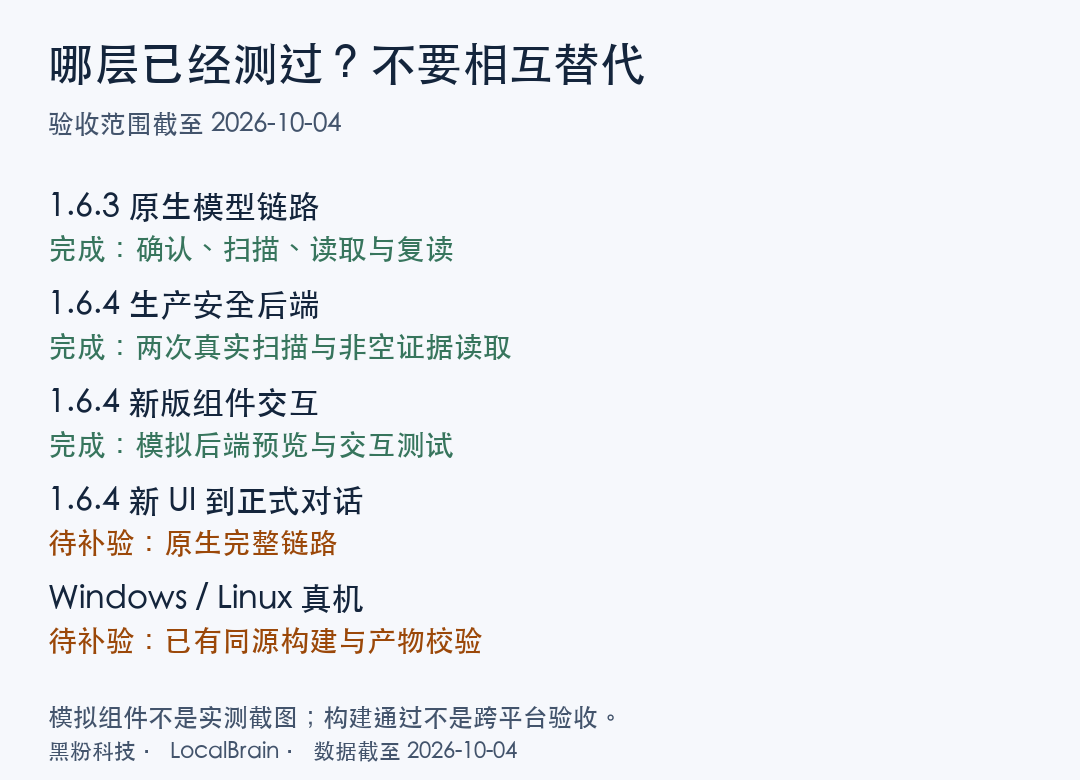
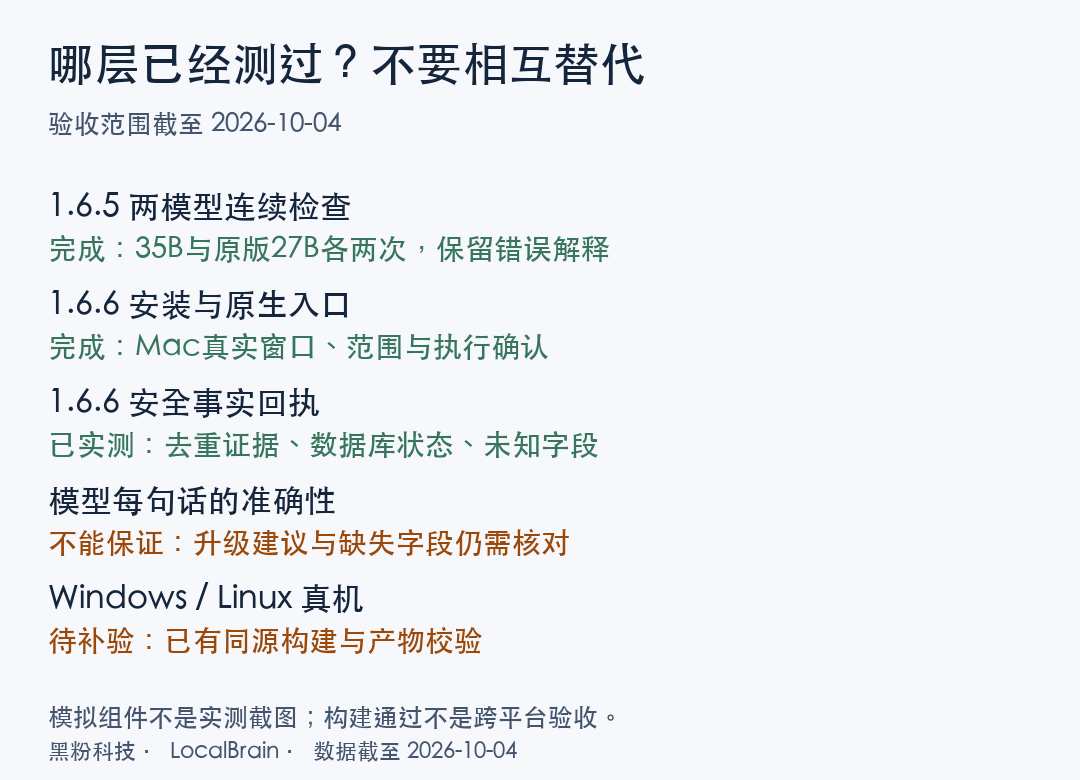
更新LocalBrain1.6.6实测与操作教程

diff --git a/content-export/posts/localbrain-network-security-en.md b/content-export/posts/localbrain-network-security-en.md
@@ -5,10 +5,10 @@ status: published
 lang: en
 translation_of: localbrain-network-security
 translation_source: machine
-source_sha256: 7ec7aede9eb5cd8e
+source_sha256: 05d34d9dc5f78652
 date: 2026-10-03
-updated: 2026-10-03
-summary: "Latest security inspection tutorial: Three targets, two execution methods, authorization filling and prompts, retaining real screenshots and two sets of test data, clearly defining 170 component matching and unaccepted boundaries."
+updated: 2026-10-04
+summary: "Security Inspection Practical Tutorial: Real installation window, three types of targets, scope confirmation and prompts, retaining continuous 35B and 27B tests, 170 component matching and model interpretation errors, clarifying verification boundaries across platforms."
 categories:
   - Tech
 tags:
@@ -29,11 +29,11 @@ legacy_paths: []
 
 My starting point for this feature was simple: since the local model can already write code and read files, could it check its own projects and services, instead of copying the scanner's output to it every time?
 
-Now this link has real results. On my M5 Pro Mac with 64GB RAM, the model in the installation took **97 seconds** to complete a built-in range check; The same conversation reread the report took **13 seconds** without rescanning. The new production backend also successfully checked twice in succession, with **15.307 seconds and 16.313 seconds** respectively.
+Now this link has real results. On my M5 Pro and 64GB memory Mac, the 1.6.5 installer tested twice consecutively with 35B and the original 27B Splash. All four times returned **170 component matches**, the actual scanning mirroring phase was **12–13 seconds**, and the temporary range was cleared. The new streamlined entry, range confirmation, and model call all retain real window screenshots.
 
-But these numbers shouldn't be confused with the phrase "the new version is six times faster." 97 seconds include model organization tasks and manual confirmation, 15 seconds only test scanning tools, and they use existing caches. This article separates operations, screenshots, data, and unfinished parts, so you know how to use them and what the results reveal.
+But "scan successful" and "model explanation accurate" are not the same thing. 27B once said that the page-turn parameters he hadn't submitted were tool failure, and both models overexplained the missing fix versions. 1.6.6 Therefore, actual parameters, the number of read evidences, and unknown fields are included in the program receipt. Let's first walk through the interface and see what these numbers actually prove.
 
-> Version Notes: This article was updated on October 4, 2026. The latest streamlined interface belongs to **1.6.4-rc.1 Candidate**; The real native model screenshot comes from 1.6.3. 1.6.4 has been supplemented with the production safety adapter, but the complete native process from the new interface to the official dialogue has not yet been verified. The two new interface images in this article clearly indicate the analog component preview and do not pretend to be scanned screenshots.
+> Version Note: This article was updated on October 4, 2026. The new operation screenshots are from the locally installed **1.6.6**; The four-instance same-condition model comparison comes from **1.6.5**; the historical records 1.6.3 and 1.6.4 are listed below. All software interface images are screenshots of the real window; Mechanism diagrams and data diagrams are marked separately and cannot replace operation acceptance.
 
 ## 1. First, look at the results: What has it already done?
 
@@ -59,13 +59,13 @@ Local models can call five security tools: querying environments and authorizati
 
 The old interface split environment, reverse validation, authorization, and scanning into many buttons. When opening it for the first time, it's easy to not know which to click first. The new version consolidates normal operations into three object entry points: **Built-in practice range, My Host or Service, My Container**; Default collapse for environment diagnosis and maintenance.
 
-![1.6.4 Three Types of Objects and Execution Methods: Simulated backend interaction preview of the official component, and screenshots of non-installed version tests.](https://hyphentech.top/obsidian-assets/localbrain-network-security/ui-164-component-preview.jpg)
+![1.6.6 Installation Version Real Window: Only displays the operation of the selected object; Select Juice Shop and model execution method, no need to enter IP or container number.](https://hyphentech.top/obsidian-assets/localbrain-network-security/native-166-model-entry.png)
 
 There are two execution options. The default "Let local model check" targets the formal conversation, which is handled by model query capabilities, tool calls, and report organization; "Direct check" does not call the model but only runs a fixed inspection process.
 
 I recommend selecting the built-in range for the first time. If you want to check the entire model chain, use the model method; If you only want to check whether the scanner and environment are normal, use the direct method. If the direct method succeeds and the model method fails, then you can continue checking model calls, confirming, and session handovers, without blaming everything on model parameters from the start.
 
-![Unified Range Confirmation Card: Centralized verification of targets, methods, and inspection scope. Simulated component preview; the confirmed native link still awaits the latest version for re-inspection.](https://hyphentech.top/obsidian-assets/localbrain-network-security/ui-164-confirmation-preview.jpg)
+![1.6.6 True Scope Confirmation Card: Centralized verification of objectives, execution methods, and inspection scope; Inspection cannot start without selecting authorized checks.](https://hyphentech.top/obsidian-assets/localbrain-network-security/native-166-scope.png)
 
 The normal order is: Select object → check scope → confirm permission to check → automatically prepare and run → view reports. Successful environment preparation does not mean authorizing any host, and the interface scope confirmation does not replace the native execution confirmation required by the tool.
 
@@ -82,7 +82,7 @@ Juice Shop is the built-in practice target. This path doesn't require you to fil
 7. The model method will be handed over to the newly created formal dialogue. When encountering the native tool confirmation box, verify the current action before allowing execution.
 8. After completion, first check the report status and objectives, then look at findings and evidence; Failure, rejection, or no report cannot be explained as "no loopholes."
 
-![Old version real range entry: Used to compare range selection and confirmation content. The new version no longer needs to search for every old button.](https://hyphentech.top/obsidian-assets/localbrain-network-security/ui-demo-20261003.png)
+![1.6.6 Installation and Local Resources: Apple M5 Pro, 64GB unified memory; weights and operating environment remain user-selected.](https://hyphentech.top/obsidian-assets/localbrain-network-security/native-166-installed.png)
 
 If you want to directly request a task in the dialogue, you can copy this inspection command:
 
@@ -97,9 +97,49 @@ If you want to directly request a task in the dialogue, you can copy this inspec
 
 This is a task description, not an authorization password. Actual approval is returned by the trusted interface; writing "approved" in the parameters has no effect.
 
-![1.6.3 Genuine Native Confirmation Box for Installation: Only selected Juice Shop demonstration actions are allowed; refusal will result in no execution.](https://hyphentech.top/obsidian-assets/localbrain-network-security/02-scoped-confirmation.png)
+![1.6.6 Genuine Native Tool Approval Box: Clearly only audits the juice-shop temporary range, does not authorize other network targets, and does not exploit vulnerabilities.](https://hyphentech.top/obsidian-assets/localbrain-network-security/native-166-approval.png)
 
-## 4. Test 1: Model runs completely, reports can be read again
+## 4. Comparison under the same conditions: 35B and the original 27B have the same scan, but the explanation is different
+
+All four times were run in the 1.6.5 install, targeting the same Juice Shop image, with no restart between the two instances. The model uses the same entry point and check requirements; 27B is the original Qwen 3.8-27B-Splash, not Swift 1.5. The total time spent in the table includes model task organization, report reading, and manual approval waiting, so it cannot be considered a pure inference speed ranking.
+
+| Record | Total time consumed | Number of rounds / tool counts | Backend scanning | Actual deduplication and read |
+| --- | --- | --- | --- | --- |
+| 35B for the first time | 69 seconds | 5 / 5 | 13 seconds | 29 / 170 entries |
+| 35B The second time | 164 seconds | 23 / 22 | 13 seconds | 170 / 170 articles |
+| 27B for the first time | 201 seconds | 5 / 7 | 13 seconds | 29 / 170 entries |
+| 27B The second time | 145 seconds | 7 / 7 | 12 seconds | 19 out of 170 articles |
+
+![1.6.5 Original 27B first actual results; Total model time recorded separately from the scanning phase.](https://hyphentech.top/obsidian-assets/localbrain-network-security/native-165-27b-first.png)
+
+Each time, the scanner gave 9 ratings of Serious, 54 High, 83 Medium, and 24 Low. The actual evidence obtained by the model differs: 35B used 19 readings to traverse all records the second time, totaling 23 rounds; 27B repeated the first page of high-risk the second time, but actually found only 19 different records. Parameters saved by the backend show that these requests were not offset, so the model cannot assume pagination is invalid just because it says "I sent 10."
+
+![1.6.5 Original 27B second consecutive real window. Scan successful, but the explanations of "no fix" and "parameter not active" in the report are still incorrect.](https://hyphentech.top/obsidian-assets/localbrain-network-security/native-165-27b-repeat.png)
+
+This comparison does not filter out failures or misinterpretations. It shows that execution links can be used continuously, and also shows that model descriptions cannot replace tool facts. Each model only has two entries, which is insufficient to prove which is generally better; 170 entries are component matches, not the number of independent vulnerabilities, and certainly not the number of successful exploits. [Complete comparison record](https://github.com/HackerChi-Hub/localbrain/blob/main/docs/evidence/2026-10-04-native-acceptance/27B-SPLASH-COMPARISON.md).
+
+The handling of 1.6.6 is handled by a common mechanism: returns the actual pagination parameter and the full request for the next page; repeated readings do not add cumulative evidence; missing fields are marked as unknown; invalid targets are rejected before approval. The model still decides which key evidence to read, does not force iteration by line, and does not automatically change parameters based on a particular model name.
+
+After installing 1.6.6, I used the same original 27B to go through the real entry, native approval, scan, and evidence reading again. The first round lasted 4 minutes and 43 seconds, including about 1 minute and 38 seconds of manual approval waiting; The scan itself was still 13 seconds. Throughout the entire 7 and 8 rounds of tools, the 5 readings actually only read 19 different records, and repeat requests did not increase the number of reads.
+
+![1.6.6 Original 27B First Round Actual Results: Task Completion and Total Time; 19 deduplication read statistics come from the original receipt, not proof by this screenshot alone.](https://hyphentech.top/obsidian-assets/localbrain-network-security/native-166-first-result.png)
+
+This round of the model correctly states "vulnerability database updated, offline scan," and clearly states that all 9 critical items were read, 10 high-risk samples, and medium-low risk not read. The table labeled the missing fix version as "unknown," but the subsequent suggestion still used "unknown fixed" and provided upgrade suggestions for this round without online verification. I keep this inconsistency: the program can provide verifiable facts, but it cannot force the model to be accurate every sentence. The formal package is the delivery of this mechanism, not the security certification suggested by the model.
+
+The second consecutive unrebooted session was completed: 4 rounds, 4 tool runs, 2 report reads, still 19 different pieces of evidence; Log recording actual scans took 12 seconds, 170 matches, and temporary container and network cleanup successfully. The interface took a total of 10 minutes and 57 seconds, with the tool phase containing 8 minutes and 56 seconds including lock screen and approval waiting, which could not be used to judge model slowdown. At the end of the second round, the real interface was accessible by text and persistent log verification; Subsequent screenshot service failed, so no images were recreated in the second round.
+
+| 1.6.6 Original 27B Test | The first time | For the second time in a row |
+| --- | --- | --- |
+| Total task time including manual waiting | 4 minutes 43 seconds | 10 minutes and 57 seconds |
+| Actual backend scanning phase | 13 seconds | 12 seconds |
+| Number of rounds / number of tools, including delivery | 7 / 8 | 4 / 4 |
+| Number of times reports are read / different types of evidence | 5 / 19 | 2 / 19 |
+| Total number of components matched | 170 | 170 |
+| Temporary resource clearance | Success | Success |
+
+The second round's statements about "unknown fix" and "19 reads only" are more accurate, but the two preparations were successfully made as identical database snapshots; Without a database summary, snapshots cannot be proven. The final "file completed" also does not apply to this task without file delivery. These are issues with existing model interpretation and closing wording, not facts verified by scanners. We can confirm that the continuous execution link is normal, but this does not guarantee the accuracy of every report sentence.
+
+## 5. Historical Testing: The model is fully executed, and the report can be read again
 
 The first set of tests used Swift-1.5-Qwen3.8-27B-Splash, running twice consecutively through the product-sharing agent kernel and production security adapter, without any reboots in between. The test bridge only allowed temporary built-in ranges and rejected external hosts and user containers; Therefore, it proved the model toolchain was usable but did not replace desktop acceptance boxes.
 
@@ -130,7 +170,7 @@ Then enter in the same dialogue:
 
 This is more important than a single success: if there is already a report, the preserved evidence should be read, without having to recreate the range each round, update the database, or scan it again. This time, only the above models and paths were validated, so it cannot be claimed that all language models have passed the same tests.
 
-## 5. Test 2: Is there any problem with continuous use of the new backend?
+## 6. Historical backend supplementary testing: Is there any problem with continuous use?
 
 The 1.6.4 retest uses the current source code compiled production safety adapter, completing two consecutive Juice Shop checks without restarting the test process. After scanning, three pieces of raw evidence are read, each with an independent report number and a non-null result.
 
@@ -147,7 +187,7 @@ This validates the continuous scanning and report reading of the production back
 
 There are also failures in testing: the first script mistakenly read the returned `reportId` with another field, and after scanning, the report request was missing the number. Only after correcting the test script fields did the above table be obtained. Failures occur in the test script and cannot be attributed to the model; After fixing, you cannot pretend the first time never failed.
 
-## 6. How should the 170 findings be interpreted?
+## 7. How should the 170 findings be interpreted?
 
 The two new backend results were consistent: Severe 9, High 54, Medium 83, Low 24, totaling 170 entries. These are matching records of identifiable software packages within the image and known vulnerability databases, not the 170 successfully exploited business vulnerabilities.
 
@@ -155,11 +195,11 @@ The two new backend results were consistent: Severe 9, High 54, Medium 83, Low 2
 
 When reviewing reports, check at least five things: which target is the target; Matching components and versions; Where the evidence comes from; Whether the fields are fixed are clear; Check what is not covered.
 
-This time, the identifiable software packages in the image are overridden, but the extra files, host kernel, and application business permission logic are not overridden by the running container. This offline scan did not include network resolution dependencies, nor was the Java index database enabled. No specific type of issue was found; it can only be said that this inspection did not detect any and cannot be considered the overall security target.
+This override covers identifiable packages in the image and does not overwrite additional files, host kernels, or application business permission logic for running containers. Offline scanning does not connect to the network for parsing dependencies, but during the preparation phase, vulnerability databases and Java databases can still be updated online. A successful database download does not prove full coverage of Java components; 1.6.6 Record the status of most recently successful preparation separately; unverified overrides remain unknown. No specific type of issue was detected, so overall target security cannot be inferred.
 
 The model made an initial mistake: the report had an empty fix version, saying "no official fix." In reality, it could only say "the database records do not list the fix version." The original report was later reviewed before correction. Therefore, the model recommended that there must be backpoint evidence; Which version to upgrade should still be verified in conjunction with the project; the recommendation is not a fixed that has already been performed.
 
-## 7. Your own host: The preset will help you fill it out, but the target cannot authorize it for you
+## 8. Your own host: Presets will fill in for you, but the target cannot be authorized for you
 
 Select "My Host or Service" and select the inspection plan first. If there is an optional local service, select from the dropdown box and use the actual address and publishing port of the discovered service; Manually enter its own address only if the target is not listed.
 
@@ -178,7 +218,7 @@ The program can automatically provide default values for the scheme and read por
 
 The local service list only covers published services discovered within the dedicated isolation environment and does not automatically detect the entire local area network. Expires after authorization expires or the application is exited; reading old reports will not restore permissions.
 
-## 8. Your own container: Choose the real target, do not manually fill in the number
+## 9. Your own container: Choose the real target, don't fill in numbers manually
 
 Select "My Container," choose an actual container from the list, then verify the target and image. The model method hands the clear container number to the dialogue; The direct method audits the image snapshot. Neither method equals exploiting vulnerabilities on the running webpage.
 
@@ -188,7 +228,7 @@ When the list is empty, first verify the environment with the built-in range; th
 
 For code projects, the task can be changed to: "Review dependencies and configurations of this authorized workspace, first provide evidence, then propose minimum repair suggestions; Request confirmation before building or testing." This does not require authorizing network hosts, but project scripts may access external directories or software repositories, so commands must still be verified; workspace selectors cannot be treated as complete system isolation.
 
-## 9. What to do if an error is reported: First, identify the failed segment, avoid repeating random points
+## 10. What to do with errors: First, identify the failed segment and avoid repetitive random points
 
 Authentic native tests initially failed: query ability was normal, but execution was mistakenly serialized as objects, backend rejected approval values, scans did not run. Fix placed on shared acknowledgment boundaries: wait for asynchronous native confirmation, only accept strict Boolean truth, unknown values reject by default; Not write a special prompt for a model.
 
@@ -204,15 +244,15 @@ Earlier connectivity tests also found false positives: the target was down, but 
 
 Isolated reverse validation checks boundaries such as authorized target reach, unauthorized port denial, direct access denial, public network access denial, and post-stop cleanup. Through these validations, only the tested boundary works as expected; containers, virtual machines, and proxies cannot be guaranteed to be free of vulnerabilities.
 
-## 10. Which version should I download? Which conclusions have not yet been accepted?
+## 11. Which version should I download? Which conclusions have not yet been accepted?
 
-The latest streamlined interface is on the [1.6.4-rc.1 all-platform candidate release page](https://github.com/HackerChi-Hub/localbrain-releases/releases/tag/v1.6.4-rc.1). The device is already installed with 1.6.4, Mac installation products match build products, installation package verification and update signature verification passed; No Apple notarization. Official automatic update still retains 1.5.9, and the candidate version will not be automatically pushed to everyone as the official stable version.
+The official version for this round is [1.6.6 on the all-platform release page](https://github.com/HackerChi-Hub/localbrain-releases/releases/tag/v1.6.6). This machine has installed version 1.6.6, the Mac native home screen matches the installation file version, and the installation package hash and update signature verification have passed; No Apple notarization is provided. The update list and download page are synchronized to the same version, and the old release is still retained.
 
-The Windows and Linux source build has been uploaded and verified, but both platforms have not yet been accepted for real-world use. Linux is considered to be supported in preview and cannot run MLX / Splash. The latest native Mac interface process was not retested due to system window capture issues; This article does not use simulation images to replace it.
+Windows and Linux are built from the same source code submission; installation package hashes and update signatures have been verified, but both platforms have not yet been accepted for real-world use. Linux is still considered to be preview-supported, MLX/Splash cannot run, and managed llama.cpp and Prism downloads have not yet been fully integrated. The model runs and native window tests in this article are from Mac and are not extended to guarantee across all platforms.
 
-This candidate release retained 14 download files. In source code acceptance, 1,423 frontend tests passed and 2 were skipped; Rust tests passed 295 and 18 were ignored; 29 test files from the Python environment passed, including 212 unit tests and additional scripts. Skipping and ignoring items do not count as passing, and the number of tests cannot replace native acceptance tests. This set of data indicates which layer of release check was achieved and does not mean the software is free of defects.
+In source code acceptance, 1,423 frontend tests passed, with 2 skipped; Rust tests passed 297 tests and 18 ignored; 29 test files passed in the product Python environment, including 212 unit tests and additional scripts. The first misuse of the Python 3.9 system resulted in a lack of dependencies and test failures; After switching to the actual product environment, all tests passed in retesting. Skipping and ignoring items do not count as passing, and the number of tests cannot replace native acceptance or guarantee that the model interpretation is error-free.
 
-![Acceptance layering: old model testing, new backend testing, new simulation interaction, and unfinished verification items.](https://hyphentech.top/obsidian-assets/localbrain-network-security/chart-evidence-levels.png)
+![Acceptance layering: Records real Mac model calls, backend evidence, and cross-platform package validation separately, building acceptance without impersonating real devices.](https://hyphentech.top/obsidian-assets/localbrain-network-security/chart-evidence-levels.png)
 
 For Mac, select the Apple Silicon package and install it into the application; For Windows, select the x64 installer; For Linux, choose either the AppImage or Debian package depending on the system. For initial preparation, additional dependencies may be required; confirm according to the software prompts; For downloads requiring international networks, prepare the connection in advance. Specific dependencies, hashes, and platform boundaries are based on the release page.
 
@@ -224,7 +264,7 @@ I don't want to prove software is amazing with a huge vulnerability number. What
 
 First, use a practice range to streamline this process, then review your own projects and services. Only test your own or clearly authorized targets; Scanning may cause resource usage or service anomalies, and risk warnings do not replace legitimate authorization.
 
-Data sources for this article: [Model Call and Native Testing Records](https://github.com/HackerChi-Hub/localbrain/blob/main/docs/SECURITY_MODEL_AGENT.md), [1.6.4 Installation and Production Adapter Acceptance Records](https://github.com/HackerChi-Hub/localbrain/blob/main/docs/RELEASE_1.6.4_VERIFICATION.md). Complete original receipts and window screenshots are kept for local testing and archiving; All schematic diagrams are drawn based on this and are not fake interfaces generated.
+Source of data for this article: [Model calls and native real-world records](https://github.com/HackerChi-Hub/localbrain/blob/main/docs/SECURITY_MODEL_AGENT.md), [1.6.6 Installation and Issuance Acceptance](https://github.com/HackerChi-Hub/localbrain/blob/main/docs/RELEASE_1.6.6_VERIFICATION.md), [1.6.4 Historical Backend Acceptance](https://github.com/HackerChi-Hub/localbrain/blob/main/docs/RELEASE_1.6.4_VERIFICATION.md) . The complete original receipt and window screenshots are kept for local testing and archiving; All schematic diagrams are drawn based on this and are not fake generated interfaces.
 
 
 ---

diff --git a/content-export/posts/localbrain-network-security.md b/content-export/posts/localbrain-network-security.md
@@ -4,7 +4,7 @@ slug: localbrain-network-security
 status: published
 date: 2026-10-03
 updated: 2026-10-04
-summary: 最新安全检查教程：三种目标、两种执行方式、授权填写与提示词，保留真实截图和两组实测数据，明确170条组件匹配及尚未验收的边界。
+summary: 安全检查实操教程：真实安装窗口、三种目标、范围确认与提示词，保留35B和27B连续实测、170条组件匹配与模型解释错误，明确各平台验证边界。
 brand_slogan: "让AI成为你的超能力"
 categories:
   - 技术分享
@@ -22,11 +22,11 @@ legacy_paths: []
 
 我做这项功能，起点很简单：既然本地模型已经能写代码、读文件，能不能让它检查自己的项目和服务，而不是每次把扫描器输出复制给它？
 
-现在这条链路已经有了真实结果。在我的 M5 Pro、64GB 内存 Mac 上，安装版中的模型完成一次内置靶场检查用了 **97 秒**；同一对话再次读取报告用了 **13 秒**，没有重新扫描。新版生产后端连续两次检查也成功，分别是 **15.307 秒、16.313 秒**。
+现在这条链路已经有了真实结果。在我的 M5 Pro、64GB 内存 Mac 上，1.6.5 安装版分别用 35B 和原版 27B Splash 连续检查两次。四次都返回 **170 条组件匹配**，真正扫描镜像的阶段为 **12–13 秒**，临时靶场均已清理。新版精简入口、范围确认和模型调用，都保留了真实窗口截图。
 
-但这些数字不能混成一句“新版快了六倍”。97 秒包含模型组织任务和人工确认，15 秒只测扫描工具，而且用的是已有缓存。本文把操作、截图、数据和没测完的部分分开，让你知道该怎么用，也知道结果能说明什么。
+但“扫描成功”和“模型解释准确”不是一回事。27B 曾把自己没有提交的翻页参数说成工具失效，两个模型也都把缺失修复版本解释过头。1.6.6 因此把实际参数、已读证据数量和未知字段放进程序回执。我们先照着界面走一遍，再看这些数字究竟能证明什么。
 
-> 版本说明：本文更新于 2026 年 10 月 4 日。最新精简界面属于 **1.6.4-rc.1 候选版**；真实原生模型截图来自 1.6.3，1.6.4 已补测生产安全适配器，但新版界面到正式对话的完整原生流程尚未补验。文中的两张新版界面图是明确标注的模拟组件预览，不冒充扫描截图。
+> 版本说明：本文更新于 2026 年 10 月 4 日。新版操作截图来自本机已安装的 **1.6.6**；四次同条件模型对比来自 **1.6.5**，下文另列历史1.6.3与1.6.4记录。所有软件界面图片均为真实窗口截图；机制图和数据图单独标注，不能替代操作验收。
 
 ## 一、先看结果：它已经做了什么？
 
@@ -52,13 +52,13 @@ LocalBrain 是本地模型工具箱，安全检查只是其中一组可选工具
 
 旧界面把环境、反向验证、授权和扫描拆成了很多按钮。第一次打开，很容易不知道先点哪个。新版将正常操作收成三个对象入口：**内置练习靶场、我的主机或服务、我的容器**；环境诊断与维护默认折叠。
 
-![1.6.4 三种对象与执行方式：正式组件的模拟后端交互预览，非安装版实测截图。](/obsidian-assets/localbrain-network-security/ui-164-component-preview.jpg)
+![1.6.6 安装版真实窗口：只显示所选对象的操作；选择 Juice Shop 与模型执行方式，不需要填写IP或容器编号。](/obsidian-assets/localbrain-network-security/native-166-model-entry.png)
 
 执行方式有两个选项。默认的“让本地模型检查”会把目标交给正式对话，由模型查询能力、调用工具和整理报告；“直接检查”不调用模型，只跑固定检查流程。
 
 我建议第一次先选内置靶场。想检查整个模型链路，就用模型方式；只想判断扫描器和环境是否正常，就用直接方式。直接方式成功而模型方式失败，才能继续查模型调用、确认与会话交接，不必一开始把所有问题都归到模型参数上。
 
-![统一范围确认卡：目标、方式和检查范围集中核对。模拟组件预览，确认后的原生链路尚待新版补验。](/obsidian-assets/localbrain-network-security/ui-164-confirmation-preview.jpg)
+![1.6.6 真实范围确认卡：目标、执行方式和检查范围集中核对；未勾选有权检查时不能开始。](/obsidian-assets/localbrain-network-security/native-166-scope.png)
 
 正常顺序是：选对象 → 核对范围 → 确认有权检查 → 自动准备并运行 → 查看报告。环境准备成功不等于授权任何主机，界面的范围确认也不替代工具需要的原生执行确认。
 
@@ -75,7 +75,7 @@ Juice Shop 是内置练习目标。这条路径不需要你填写镜像地址、
 7. 模型方式会交接到新建的正式对话。遇到原生工具确认框，核对本次动作后再允许执行。
 8. 完成后，先看报告状态和目标，再看发现与证据；失败、拒绝或没有报告都不能解释成“没有漏洞”。
 
-![旧版真实靶场入口：用于对照靶场选择与确认内容。新版不需要照着寻找每一个旧按钮。](/obsidian-assets/localbrain-network-security/ui-demo-20261003.png)
+![1.6.6 安装与本机资源：Apple M5 Pro、64GB统一内存，权重和运行环境仍由用户选择。](/obsidian-assets/localbrain-network-security/native-166-installed.png)
 
 想直接在对话提出任务，可以复制这段检查指令：
 
@@ -90,9 +90,49 @@ Juice Shop 是内置练习目标。这条路径不需要你填写镜像地址、
 
 这是任务描述，不是授权口令。真正的批准由可信界面返回，模型在参数里写“已批准”没有作用。
 
-![1.6.3 安装版真实原生确认框：只允许所选 Juice Shop 示范动作，拒绝则不执行。](/obsidian-assets/localbrain-network-security/02-scoped-confirmation.png)
+![1.6.6 真实原生工具批准框：明确只审计 juice-shop 临时靶场，不授权其他网络目标，也不执行漏洞利用。](/obsidian-assets/localbrain-network-security/native-166-approval.png)
 
-## 四、实测一：模型完整执行，报告可以再次读取
+## 四、同条件对比：35B 与原版 27B，扫描一样，解释不同
+
+这四次都在1.6.5安装版运行，目标为同一个 Juice Shop 镜像，两次之间不重启。模型使用相同入口与检查要求；27B 是原版 Qwen3.8-27B-Splash，不是 Swift 1.5。表中的总耗时包含模型组织任务、读报告及人工批准等待，不能当成纯推理速度排名。
+
+| 记录 | 总耗时 | 轮数 / 工具次数 | 后端扫描 | 实际去重读取 |
+| --- | --- | --- | --- | --- |
+| 35B 首次 | 69秒 | 5 / 5 | 13秒 | 29 / 170条 |
+| 35B 第二次 | 164秒 | 23 / 22 | 13秒 | 170 / 170条 |
+| 27B 首次 | 201秒 | 5 / 7 | 13秒 | 29 / 170条 |
+| 27B 第二次 | 145秒 | 7 / 7 | 12秒 | 19 / 170条 |
+
+![1.6.5 原版27B第一次的真实结果；模型总耗时与扫描阶段分开记录。](/obsidian-assets/localbrain-network-security/native-165-27b-first.png)
+
+扫描器每次都给出严重9、高54、中83、低24。模型实际拿到的证据不同：35B第二次为了遍历全部记录用了19次读报告，整轮23轮；27B第二次反复读高危第一页，实际只有19条不同记录。后端保存的参数显示，这几次请求没有 offset，不能因为模型说“我传了10”就断言分页失效。
+
+![1.6.5 原版27B连续第二次的真实窗口。扫描成功，但报告里“无修复”和“参数未生效”的解释仍有错误。](/obsidian-assets/localbrain-network-security/native-165-27b-repeat.png)
+
+这次对比没有筛掉失败或错误解读。它说明执行链路可以连续使用，也说明模型叙述不能替代工具事实。每个模型仅两次，不足以证明谁普遍更好；170条是组件匹配数，不是独立漏洞数量，更不是成功利用数量。[完整对比记录](https://github.com/HackerChi-Hub/localbrain/blob/main/docs/evidence/2026-10-04-native-acceptance/27B-SPLASH-COMPARISON.md)。
+
+1.6.6 的处理放在共同机制：返回真实分页参数和下一页完整请求；重复读取不增加累计证据；修复字段缺失标为未知；无效目标在批准前拒绝。模型仍自行决定读哪些关键证据，不强制逐条遍历，更不因某个模型名称自动改参数。
+
+安装1.6.6后，我用同一原版27B再次走完真实入口、原生批准、扫描和证据读取。首轮总耗时4分43秒，其中包含约1分38秒人工批准等待；扫描本身仍是13秒。整轮7轮、8次工具，5次读报告实际只读取19条不同记录，重复请求没有抬高已读数量。
+
+![1.6.6原版27B首轮真实结果：任务结束与总用时；19条去重读取统计来自原始回执，不是这张截图单独证明。](/obsidian-assets/localbrain-network-security/native-166-first-result.png)
+
+这轮模型正确写出“漏洞库已更新、离线扫描”，并明确严重9条全部读取、高危10条样本、中低危未读取。表格把缺失修复版本写成“未知”，但后面的建议仍用了“无已知修复版本”，也给了本轮没有联网核实的升级建议。我保留这处不一致：程序能够给出可核对的事实，并不能强制模型每句话都准确。正式包是这套机制的交付，不是模型建议的安全认证。
+
+未重启的连续第二次也完成了：4轮、4次工具，2次报告读取，仍是19条不同证据；日志记录实际扫描12秒、170条匹配、临时容器与网络清理成功。界面总耗时10分57秒，其中工具阶段8分56秒包含锁屏及批准等待，不能据此判断模型变慢。第二轮结束由真实界面可访问文本和持久日志核对；后续截屏服务失败，因此没有补造第二轮图片。
+
+| 1.6.6 原版27B实测 | 第一次 | 连续第二次 |
+| --- | --- | --- |
+| 任务总耗时，含人工等待 | 4分43秒 | 10分57秒 |
+| 后端实际扫描阶段 | 13秒 | 12秒 |
+| 轮数 / 工具次数，含交付 | 7 / 8 | 4 / 4 |
+| 读报告次数 / 不同证据 | 5 / 19 | 2 / 19 |
+| 组件匹配总数 | 170 | 170 |
+| 临时资源清理 | 成功 | 成功 |
+
+第二轮对“未知修复版本”和“只读19条”的表述更准确，但又把两次准备成功说成相同数据库快照；没有数据库摘要，就不能证明快照一致。末尾“文件已完成”也不适用于这次没有文件交付的任务。它们是尚存的模型解释与收口措辞问题，不是扫描器验证出的事实。我们能确认连续执行链路正常，不能因此保证报告每句话准确。
+
+## 五、历史实测：模型完整执行，报告可以再次读取
 
 第一组测试使用 Swift-1.5-Qwen3.8-27B-Splash，通过产品共享代理内核和生产安全适配器连续运行两次，中间没有重启。测试桥只允许临时内置靶场，拒绝外部主机与用户容器；因此它能证明模型工具链可用，但不代替桌面确认框验收。
 
@@ -123,7 +163,7 @@ Juice Shop 是内置练习目标。这条路径不需要你填写镜像地址、
 
 这一点比单次成功更重要：已经有报告，就应读取保存的证据，不必每轮重新创建靶场、更新数据库、扫描一遍。此次只验证了上述模型和路径，不能因此宣称所有语言模型已经通过同样的实测。
 
-## 五、实测二：新版后端连续使用有没有问题？
+## 六、历史后端补测：连续使用有没有问题？
 
 1.6.4 的补测使用当前源码编译的生产安全适配器，连续完成两次 Juice Shop 检查，中间没有重启测试进程。扫描后分别读取三条原始证据，两次都有独立报告编号和非空结果。
 
@@ -140,7 +180,7 @@ Juice Shop 是内置练习目标。这条路径不需要你填写镜像地址、
 
 测试也有失败记录：第一次脚本误把返回的 `reportId` 按另一个字段读取，扫描完成后，读报告请求缺少编号。修正测试脚本字段后才得到上表。失败发生在测试脚本，不能归因于模型；修好之后，也不能假装第一次从未失败。
 
-## 六、170 条发现，应该怎样解读？
+## 七、170 条发现，应该怎样解读？
 
 两次新版后端结果一致：严重 9、高 54、中 83、低 24，共 170 条。它们是镜像内可识别软件包与已知漏洞数据库的匹配记录，不是 170 个成功利用的业务漏洞。
 
@@ -148,11 +188,11 @@ Juice Shop 是内置练习目标。这条路径不需要你填写镜像地址、
 
 看报告时，至少核对五件事：目标是哪一个；匹配的组件与版本；证据从哪里来；修复字段是否明确；检查没有覆盖什么。
 
-本次覆盖镜像中可识别的软件包，不覆盖运行容器额外增加的文件、宿主机内核和应用业务权限逻辑。此次离线扫描没有联网解析依赖，Java 索引数据库也未启用。没有发现某一类问题，只能说本次检查没检出，不能推出目标整体安全。
+本次覆盖镜像中可识别的软件包，不覆盖运行容器额外增加的文件、宿主机内核和应用业务权限逻辑。离线扫描不联网解析依赖，但准备阶段仍可联网更新漏洞库与Java数据库。数据库下载成功不证明Java组件完整覆盖；1.6.6将最近成功准备的状态单独记录，未验证的覆盖保持未知。没有检出某类问题，不能推出目标整体安全。
 
 模型初次解释还犯过一个错误：报告的修复版本为空，它说成了“没有官方修复”。实际只能说“本次数据库记录未列出修复版本”。后续读原始报告才改正。因此模型建议必须能回指证据；升级到哪个版本仍要结合项目核实，建议不是已经执行的修复。
 
-## 七、自己的主机：预设会帮你填，但目标不能替你授权
+## 八、自己的主机：预设会帮你填，但目标不能替你授权
 
 选择“我的主机或服务”，先选检查方案。有可选本地服务时，从下拉框选，程序使用已发现服务的实际地址和发布端口；没有列出的目标才手动输入自己的地址。
 
@@ -171,7 +211,7 @@ Juice Shop 是内置练习目标。这条路径不需要你填写镜像地址、
 
 本地服务列表只覆盖专用隔离环境内可发现的已发布服务，不代表自动发现整个局域网。授权到期或退出应用后失效，读取旧报告不会恢复权限。
 
-## 八、自己的容器：选择真实目标，不手填编号
+## 九、自己的容器：选择真实目标，不手填编号
 
 选择“我的容器”，从列表选一个实际容器，再核对目标和镜像。模型方式把明确容器编号交给对话；直接方式审计镜像快照。两种方式都不等于对运行网页执行漏洞利用。
 
@@ -181,7 +221,7 @@ Juice Shop 是内置练习目标。这条路径不需要你填写镜像地址、
 
 对于代码项目，可把任务换成“审查这个已授权工作区的依赖与配置，先列证据，再提出最小修复建议；执行构建或测试前申请确认”。这一条不需要授权网络主机，但项目脚本可能访问目录外或软件仓库，仍要核对命令，不能把工作区选择器当作完整系统隔离。
 
-## 九、报错怎么办：先找失败的环节，不重复乱点
+## 十、报错怎么办：先找失败的环节，不重复乱点
 
 真实原生测试最初也失败过：查询能力正常，执行确认却被错误序列化为对象，后端拒绝批准值，扫描没有运行。修复放在共用确认边界：等待异步原生确认，只接受严格布尔真值，未知值默认拒绝；不是给某个模型写一条特别提示词。
 
@@ -197,15 +237,15 @@ Juice Shop 是内置练习目标。这条路径不需要你填写镜像地址、
 
 隔离反向验证检查授权目标可达、未授权端口拒绝、直接访问拒绝、公网访问拒绝与停止后清理等边界。通过这些验证，只证明所测边界按预期工作，不能承诺容器、虚拟机和代理永远没有漏洞。
 
-## 十、下载哪版？哪些结论还没验收？
+## 十一、下载哪版？哪些结论还没验收？
 
-最新精简界面在 [1.6.4-rc.1 全平台候选发行页](https://github.com/HackerChi-Hub/localbrain-releases/releases/tag/v1.6.4-rc.1)。本机已安装 1.6.4，Mac 安装产物与构建产物一致，安装包校验和更新签名验签通过；没有苹果公证。正式自动更新仍保留 1.5.9，不会把候选版当正式稳定版自动推给所有人。
+本轮正式版本为 [1.6.6 全平台发行页](https://github.com/HackerChi-Hub/localbrain-releases/releases/tag/v1.6.6)。本机已安装1.6.6，Mac原生首页与安装文件版本一致，安装包散列和更新签名验签通过；没有苹果公证。更新清单与下载页同步到同一版本，旧发行仍保留。
 
-Windows 和 Linux 同源构建产物已上传并校验，但尚未做两平台真机使用验收。Linux 按预览支持看待，不能运行 MLX / Splash。Mac 的最新原生界面全流程因系统窗口捕获问题未补验；本文没有拿模拟图顶替它。
+Windows和Linux从同一源码提交构建，安装包散列与更新签名已核对，但尚未做两平台真机使用验收。Linux仍按预览支持看待，不能运行MLX/Splash，受管llama.cpp与Prism下载尚未完整接入。本文的模型运行与原生窗口实测来自Mac，不扩展成全平台保证。
 
-这次候选发行保留了 14 个下载文件。源码验收中，前端测试 1423 条通过、2 条跳过；Rust 测试 295 条通过、18 条忽略；产品 Python 环境的 29 个测试文件通过，其中含 212 条单元测试及附加脚本。跳过和忽略项不算通过，测试数量也不能代替原生使用验收。这组数据用于说明发行检查做到了哪一层，不表示软件没有缺陷。
+源码验收中，前端测试1423条通过、2条跳过；Rust测试297条通过、18条忽略；产品Python环境的29个测试文件通过，其中含212条单元测试及附加脚本。第一次误用系统Python3.9运行时，缺少依赖并出现测试失败；切换到产品实际环境后全量复测通过。跳过和忽略项不算通过，测试数量也不能代替原生使用验收，更不能保证模型解释没有错误。
 
-![验收分层：旧版模型实测、新版后端实测、新版模拟交互与尚未补验项。](/obsidian-assets/localbrain-network-security/chart-evidence-levels.png)
+![验收分层：Mac真实模型调用、后端证据与跨平台包校验分别记录，构建不冒充真机验收。](/obsidian-assets/localbrain-network-security/chart-evidence-levels.png)
 
 Mac 选择 Apple Silicon 包，安装到应用程序；Windows 选择 x64 安装程序；Linux 根据系统选择 AppImage 或 Debian 包。首次准备可能需要下载额外依赖，按软件提示确认；需要国际网络的下载应提前准备连接。具体依赖、散列和平台边界，以发行页为准。
 
@@ -217,7 +257,7 @@ Mac 选择 Apple Silicon 包，安装到应用程序；Windows 选择 x64 安装
 
 先用练习靶场把这条流程走通，再检查自己的项目和服务。只能测试自己拥有或明确获得授权的目标；扫描可能造成资源占用或服务异常，风险提示不替代合法授权。
 
-本文数据出处：[模型调用与原生实测记录](https://github.com/HackerChi-Hub/localbrain/blob/main/docs/SECURITY_MODEL_AGENT.md)、[1.6.4 安装与生产适配器验收记录](https://github.com/HackerChi-Hub/localbrain/blob/main/docs/RELEASE_1.6.4_VERIFICATION.md)。完整原始回执与窗口截图保留在本地测试归档；示意图均为据此绘制，不是生成的假界面。
+本文数据出处：[模型调用与原生实测记录](https://github.com/HackerChi-Hub/localbrain/blob/main/docs/SECURITY_MODEL_AGENT.md)、[1.6.6安装与发行验收](https://github.com/HackerChi-Hub/localbrain/blob/main/docs/RELEASE_1.6.6_VERIFICATION.md)、[1.6.4历史后端验收](https://github.com/HackerChi-Hub/localbrain/blob/main/docs/RELEASE_1.6.4_VERIFICATION.md)。完整原始回执与窗口截图保留在本地测试归档；示意图均为据此绘制，不是生成的假界面。
 
 
 ---
